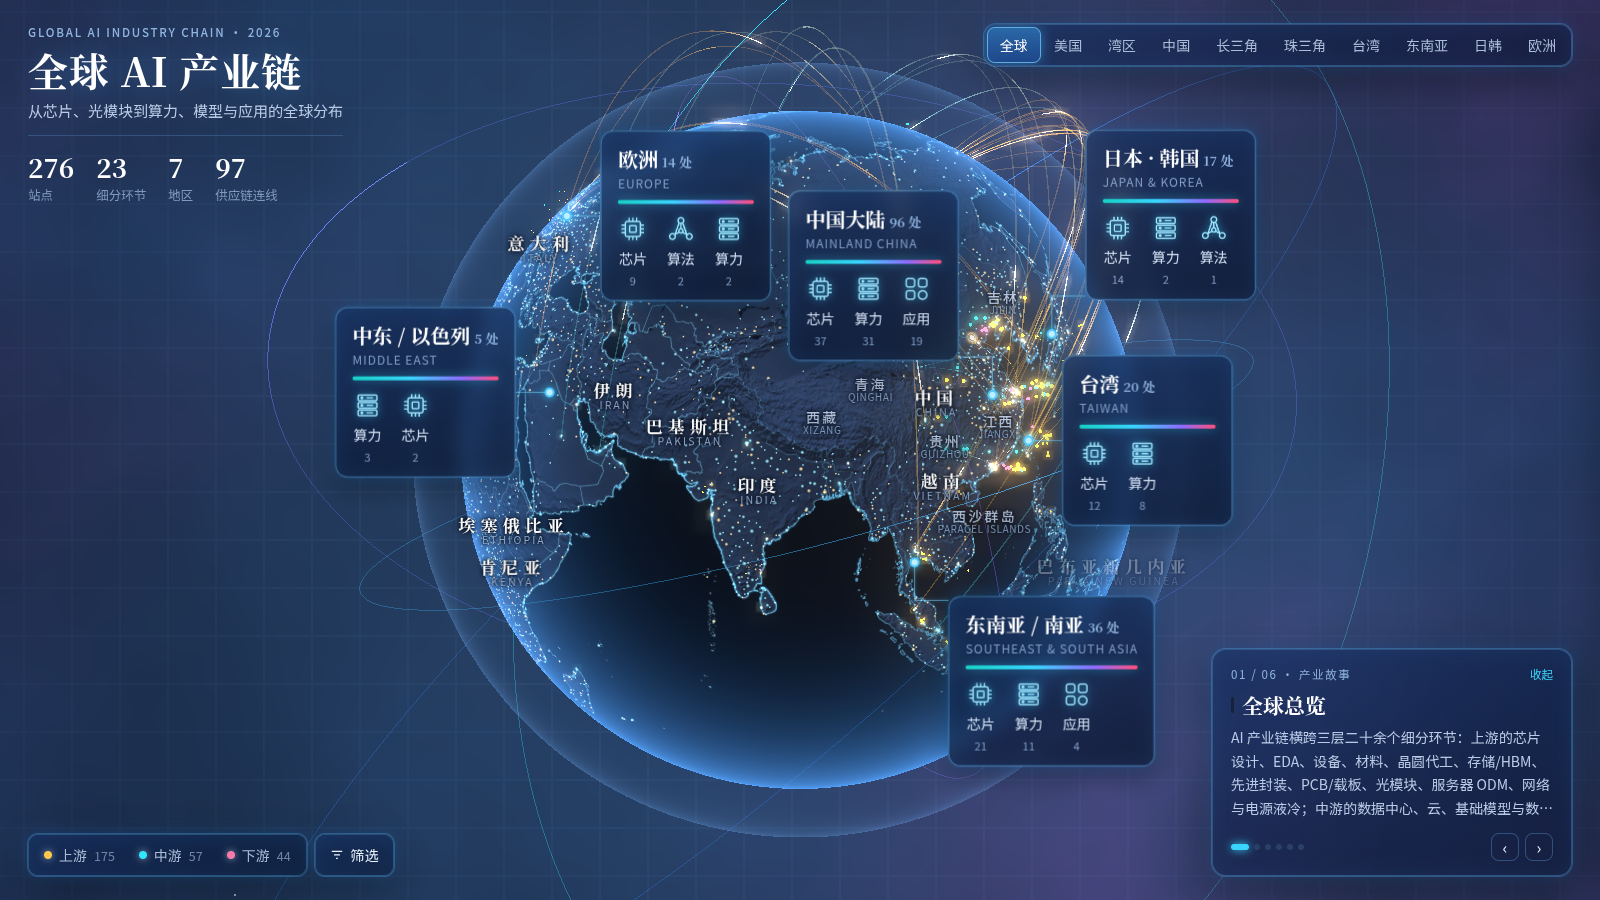
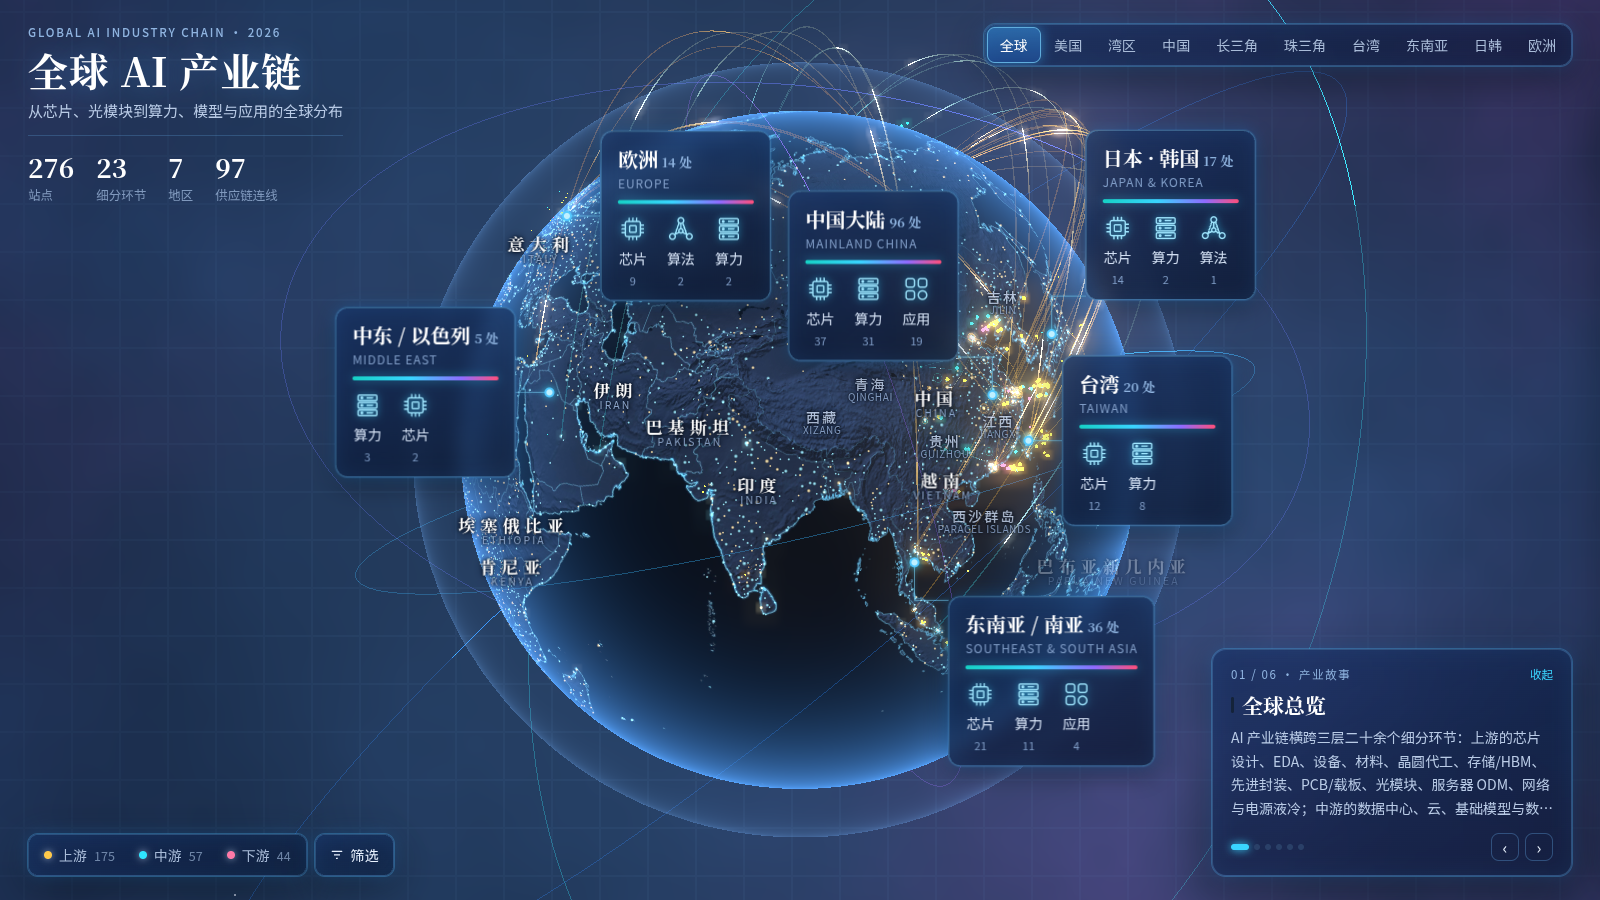
地区视角范围过滤：预设仅显示本地区卡片/站点/建筑，连线按端点过滤与淡化，与地区筛选与叙事同步；__scopeCheck 自动断言

diff --git a/index.html b/index.html
@@ -332,7 +332,12 @@ ARCS.forEach(([a,b],i)=>{const A=byId[a],B=byId[b];if(!A||!B)return;
 
 // ================= UI =================
 let fLayer='all',fCty='all',showArcs=true;
-let fSeg=new Set();const visible=o=>(fLayer==='all'||o.layer===fLayer)&&(fCty==='all'||o.cty===fCty)&&(!fSeg.size||fSeg.has(o.seg));
+let scope='globe';const SCOPE={us:o=>o.cty==='US',bay:o=>o.cty==='US'&&o.lat>36.8&&o.lat<38.2&&o.lon>-122.8&&o.lon<-121.5,cn:o=>o.cty==='CN',
+ yrd:o=>o.cty==='CN'&&/^(上海|江苏|浙江|安徽)/.test(o.city),prd:o=>o.cty==='CN'&&/^(广东|香港|澳门)/.test(o.city),tw:o=>o.cty==='TW',sea:o=>o.cty==='SEA',jk:o=>o.cty==='JK',eu:o=>o.cty==='EU',me:o=>o.cty==='ME'};
+const inScope=o=>!SCOPE[scope]||SCOPE[scope](o);
+const SC2CTY={globe:'all',us:'US',bay:'US',cn:'CN',yrd:'CN',prd:'CN',tw:'TW',sea:'SEA',jk:'JK',eu:'EU',me:'ME'};
+function setScope(k){scope=k;fCty=SC2CTY[k]||'all';document.querySelectorAll('#ctyBtns button').forEach(x=>x.classList.toggle('on',x.dataset.c===fCty));document.querySelectorAll('#flyBtns button').forEach(x=>x.classList.toggle('on',x.dataset.f===k));if(typeof applyFilter==='function')applyFilter();}
+let fSeg=new Set();const visibleBase=o=>(fLayer==='all'||o.layer===fLayer)&&(fCty==='all'||o.cty===fCty)&&(!fSeg.size||fSeg.has(o.seg));const visible=o=>visibleBase(o)&&inScope(o);const _unused=o=>(fLayer==='all'||o.layer===fLayer)&&(fCty==='all'||o.cty===fCty)&&(!fSeg.size||fSeg.has(o.seg));
 function applyFilter(){markers.forEach(o=>o.target=visible(o)?1:0);updateStats();}
 function updateStats(){const v=markers.filter(visible);const cnt=k=>v.filter(o=>o.layer===k).length;
  const set=(id,t)=>{const e=document.getElementById(id);if(e)e.textContent=t;};set('nSites',v.length);set('nArc',arcs.filter(a=>visible(a.A)&&visible(a.B)).length);
@@ -344,7 +349,7 @@ document.querySelectorAll('#layerBtns button').forEach(b=>b.onclick=()=>{const v
 const pop=document.getElementById('pop');document.getElementById('filterBtn').onclick=e=>{e.stopPropagation();pop.classList.toggle('open');};
 addEventListener('pointerdown',e=>{if(pop.classList.contains('open')&&!pop.contains(e.target)&&!e.target.closest('#filterBtn'))pop.classList.remove('open');});
 document.getElementById('srcNote').textContent=AD.sources;
-grp('ctyBtns','c',v=>{fCty=v;applyFilter();const m={US:'us',CN:'cn',TW:'tw',SEA:'sea',JK:'jk',EU:'eu',ME:'me'};if(m[v])flyTo(m[v]);});
+grp('ctyBtns','c',v=>{fCty=v;if(v==='all'){scope='globe';document.querySelectorAll('#flyBtns button').forEach(x=>x.classList.toggle('on',x.dataset.f==='globe'));}applyFilter();const m={US:'us',CN:'cn',TW:'tw',SEA:'sea',JK:'jk',EU:'eu',ME:'me'};if(m[v])flyTo(m[v]);});
 const SEGINK={up:'#e0a82a',mid:'#2bc6bb',down:'#e58050'};
 document.getElementById('segBtns').innerHTML=['up','mid','down'].map(L=>`<div class="chips" style="margin-bottom:6px">`+Object.entries(SEG).filter(([k,v])=>v[1]===L).map(([k,[n,l]])=>`<button class="chip" data-s="${k}"><i style="background:${AINK[l]}"></i>${n}</button>`).join('')+'</div>').join('');
 document.querySelectorAll('#segBtns button').forEach(b=>b.onclick=()=>{const k=b.dataset.s;if(fSeg.has(k))fSeg.delete(k);else fSeg.add(k);b.classList.toggle('on',fSeg.has(k));applyFilter();});
@@ -355,7 +360,7 @@ const arcBtn=document.getElementById('arcBtn');arcBtn.onclick=()=>{showArcs=!sho
 const composer=new EffectComposer(renderer);composer.addPass(new RenderPass(scene,camera));const bloom=new UnrealBloomPass(new THREE.Vector2(innerWidth,innerHeight),.6,.45,.62);composer.addPass(bloom);composer.addPass(new OutputPass());
 const PRESETS={globe:[28,85,3.6],us:[38.5,-97,2.7],bay:[37.5,-122.12,.03,46],ne:[41.4,-74.2,.5,42],cn:[29.5,113.5,.95,38],yrd:[30.6,120.3,.16,45],prd:[22.6,113.9,.09,45],tw:[23.6,120.8,.13,40],sea:[8,104,.75,30],jk:[34.5,133,.42,38],eu:[49,7,.55,38],me:[27,47,.9,30]};
 let fly=null;
-function flyTo(k,latlon){if(!latlon)document.querySelectorAll('#flyBtns button').forEach(x=>x.classList.toggle('on',x.dataset.f===k));let [lat,lon,d,tilt=0]=latlon||PRESETS[k];if(innerWidth<innerHeight)d=tilt?d*1.5:1+(d-1)*1.9;const from=camera.position.clone();let to,tgt;
+function flyTo(k,latlon){if(k&&!latlon&&PRESETS[k]&&k!==scope)setScope(k);if(!latlon)document.querySelectorAll('#flyBtns button').forEach(x=>x.classList.toggle('on',x.dataset.f===k));let [lat,lon,d,tilt=0]=latlon||PRESETS[k];if(innerWidth<innerHeight)d=tilt?d*1.5:1+(d-1)*1.9;const from=camera.position.clone();let to,tgt;
  if(tilt){tgt=ll2v(lat,lon,R);const n=tgt.clone().normalize();const east=new THREE.Vector3(0,1,0).cross(n).normalize();const north=n.clone().cross(east);
   const tr=tilt*Math.PI/180;to=tgt.clone().addScaledVector(n,Math.cos(tr)*d).addScaledVector(north,-Math.sin(tr)*d);}
  else{to=ll2v(lat,lon,d);tgt=new THREE.Vector3();}
@@ -576,6 +581,7 @@ function updateCards(){ZONES=['title','flyBtns','dock','story','info','pop'].map
   g.line.setAttribute('d',`M${g.dx.toFixed(1)},${g.dy.toFixed(1)} L${(horiz?mx:g.dx).toFixed(1)},${ey.toFixed(1)} L${ex.toFixed(1)},${ey.toFixed(1)}`);
   g.line.style.opacity=g.op*.75;});
  const rects=[];groups.forEach(g=>{if(g.act&&g.op>.05){rects.push({x:g.dx,y:g.dy,w:10,h:10});rects.push({x:g.x,y:g.y,w:g.sw+8,h:g.sh+6});}});updatePlaces(rects);}
+window.__scopeCheck=()=>{const vs=groups.filter(g=>g.act&&g.op>.05);const bad=vs.filter(g=>g.vis.some(o=>!inScope(o))||(scope!=='globe'&&g.rg&&g.rg!==SC2CTY[scope])).map(g=>g.city);const dots=markers.filter(o=>o.target>0&&!inScope(o)).length;return {scope,cards:vs.length,bad,dots};};
 window.__settled=()=>!fly&&still>8&&introT>=1;window.__cardCheck=()=>{const vs=groups.filter(g=>g.act);const rs=vs.map(g=>g.el.getBoundingClientRect());let ov=0;for(let i=0;i<rs.length;i++)for(let j=i+1;j<rs.length;j++){const a=rs[i],b=rs[j];if(a.left<b.right&&a.right>b.left&&a.top<b.bottom&&a.bottom>b.top)ov++;}
  let zo=0;rs.forEach(a=>ZONES.forEach(b=>{if(a.left<b.right&&a.right>b.left&&a.top<b.bottom&&a.bottom>b.top)zo++;}));const off=rs.filter(a=>a.left<0||a.top<0||a.right>innerWidth||a.bottom>innerHeight).length;
   return {cards:vs.length,overlaps:ov,zoneOverlaps:zo,offscreen:off,hidden:vs.filter(g=>g.op<.5||g.el.style.display==='none').length,cols:vs.filter(g=>g.pl&&g.pl.col).length};};
@@ -619,7 +625,7 @@ function tick(){const dt=Math.min(clock.getDelta(),.05);const t=clock.elapsedTim
   o.pillar.material.uniforms.uHi.value+=(hi-o.pillar.material.uniforms.uHi.value)*.2;o.ring.material.uniforms.uHi.value=o.pillar.material.uniforms.uHi.value;
   const s=Math.max(o.vis,.0001);o.group.scale.set(s*sc,s*sc,s*(.6+.4*sc));o.group.visible=o.vis>.01;o.pillar.visible=false;o.ring.visible=o.head.visible=bFade<.35;
   o.head.scale.setScalar(.0042*(1+hi*.8));});
- arcs.forEach(a=>{const tg=showArcs&&visible(a.A)&&visible(a.B)&&introT>=1?1:0;a.op+=(tg-a.op)*Math.min(1,dt*3);a.m.uniforms.uOp.value=a.op*(.25+.75*THREE.MathUtils.smoothstep(camera.position.length(),1.3,2.6))*THREE.MathUtils.smoothstep(camera.position.length(),1.08,1.3)*(camera.position.length()>3?.5:.75);a.mesh.visible=a.op>.01;});
+ arcs.forEach(a=>{const ia=visible(a.A),ib=visible(a.B),ba=visibleBase(a.A),bb=visibleBase(a.B);const tg=showArcs&&introT>=1&&(ia||ib)&&ba&&bb?(ia&&ib?1:.3):0;a.op+=(tg-a.op)*Math.min(1,dt*3);a.m.uniforms.uOp.value=a.op*(.25+.75*THREE.MathUtils.smoothstep(camera.position.length(),1.3,2.6))*THREE.MathUtils.smoothstep(camera.position.length(),1.08,1.3)*(camera.position.length()>3?.5:.75);a.mesh.visible=a.op>.01;});
  controls.update();{const nr=THREE.MathUtils.clamp((camera.position.length()-1)*.25,.0004,.05);if(Math.abs(nr-camera.near)>1e-5){camera.near=nr;camera.updateProjectionMatrix();}}
  hovered=started&&!fly?pick():null;renderer.domElement.style.cursor=hovered?'pointer':'grab';
  if(hovered){label.style.opacity=1;label.style.left=mx+'px';label.style.top=my+'px';label.innerHTML=`<b style="color:#${hovered.color.getHexString()}">●</b> ${hovered.cn} <span style="opacity:.55">· ${hovered.city}</span>`;}else label.style.opacity=0;
